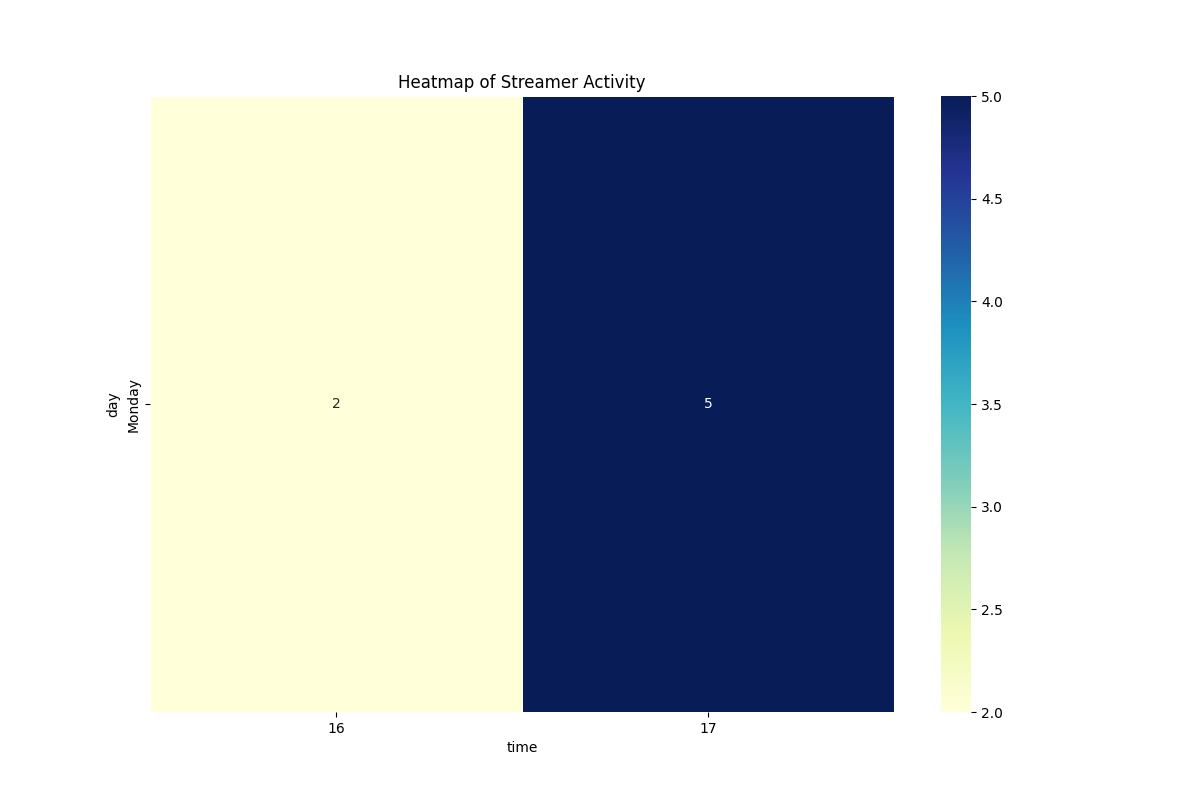
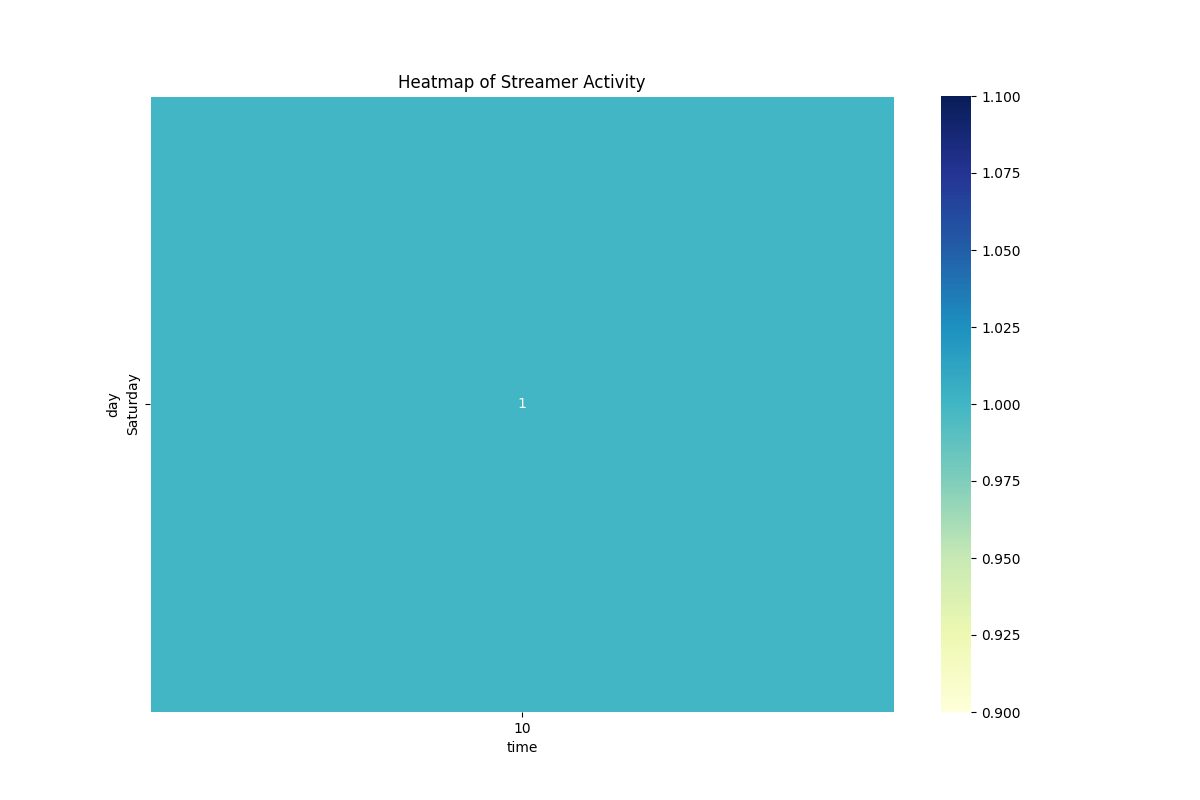
fix when streamer goes live

diff --git a/application/routes/routes.py b/application/routes/routes.py
@@ -7,6 +7,7 @@ import pytesseract
 import os
 import cv2
 import hashlib
+import pytz
 import hmac
 import logging
 from ..utils.heatmap_generator import generate_heatmap
@@ -193,13 +194,20 @@ def check_user_online(user_login):
         return {'status': 'offline'}
 
 def get_day_and_time():
-    now = datetime.now()
-    day_of_week = now.strftime("%A")
-    current_hour = now.hour
+    est = pytz.timezone('America/New_York')
+    
+    now_utc = datetime.now(pytz.utc)
+    now_est = now_utc.astimezone(est)
+    
+    day_of_week = now_est.strftime("%A")
+    current_hour = now_est.hour
+    
     return day_of_week, current_hour
 
 def append_to_csv(display_name, day, time):
-    with open('warzone-streamer.csv', mode='a', newline='') as file:
+    base_path = os.path.dirname(__file__)  
+    csv_path = os.path.join(base_path, '..', '..', 'warzone-streamer.csv')
+    with open(csv_path, mode='a', newline='') as file:
         writer = csv.writer(file)
         writer.writerow([display_name, day, time])
 
@@ -225,7 +233,7 @@ def webhook_callback():
         
         if not hmac.compare_digest(expected_signature, signature):
             return 'Signature verification failed', 403
-        if MESSAGE_TYPE_VERIFICATION == event_type:
+        if event_type == MESSAGE_TYPE_VERIFICATION:
             return Response(request.json['challenge'], content_type='text/plain', status=200)
         if event_type == "notification":
             broadcaster_id = request.json['subscription']['condition']['broadcaster_user_id']
